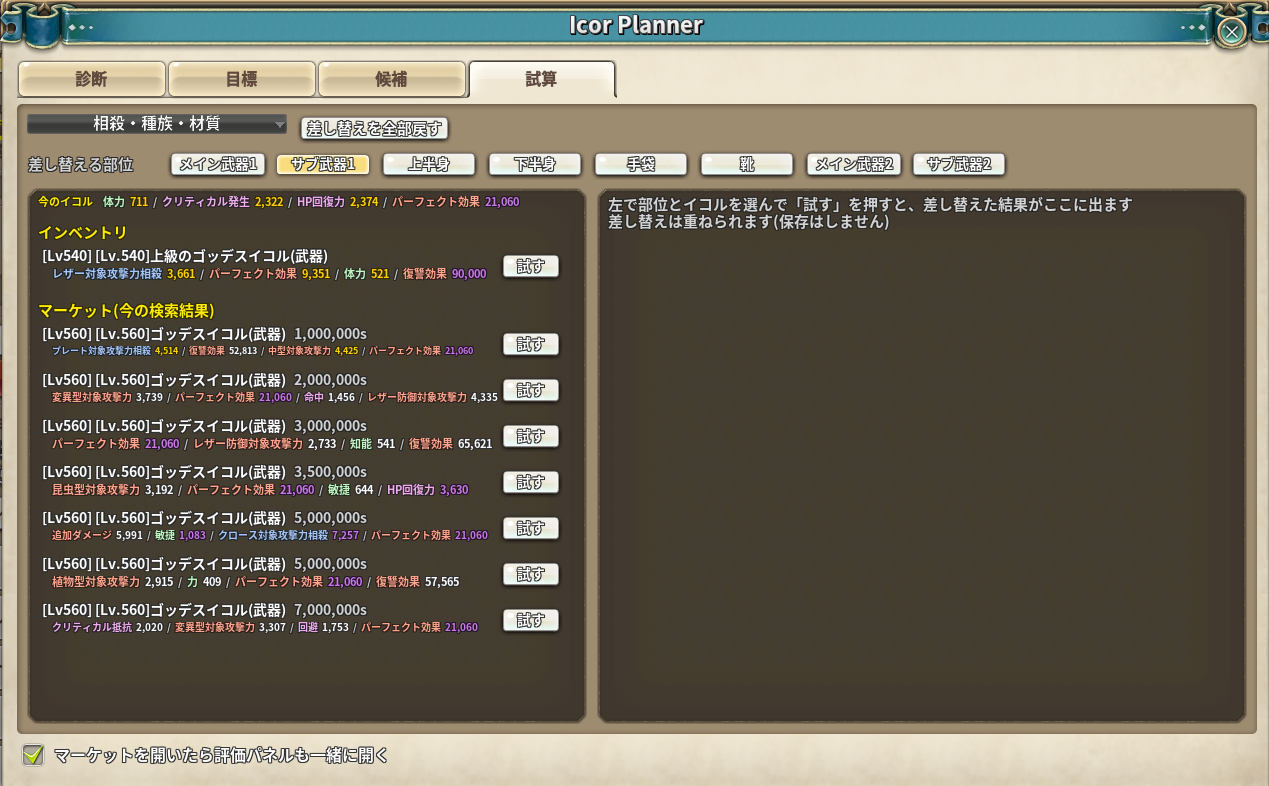
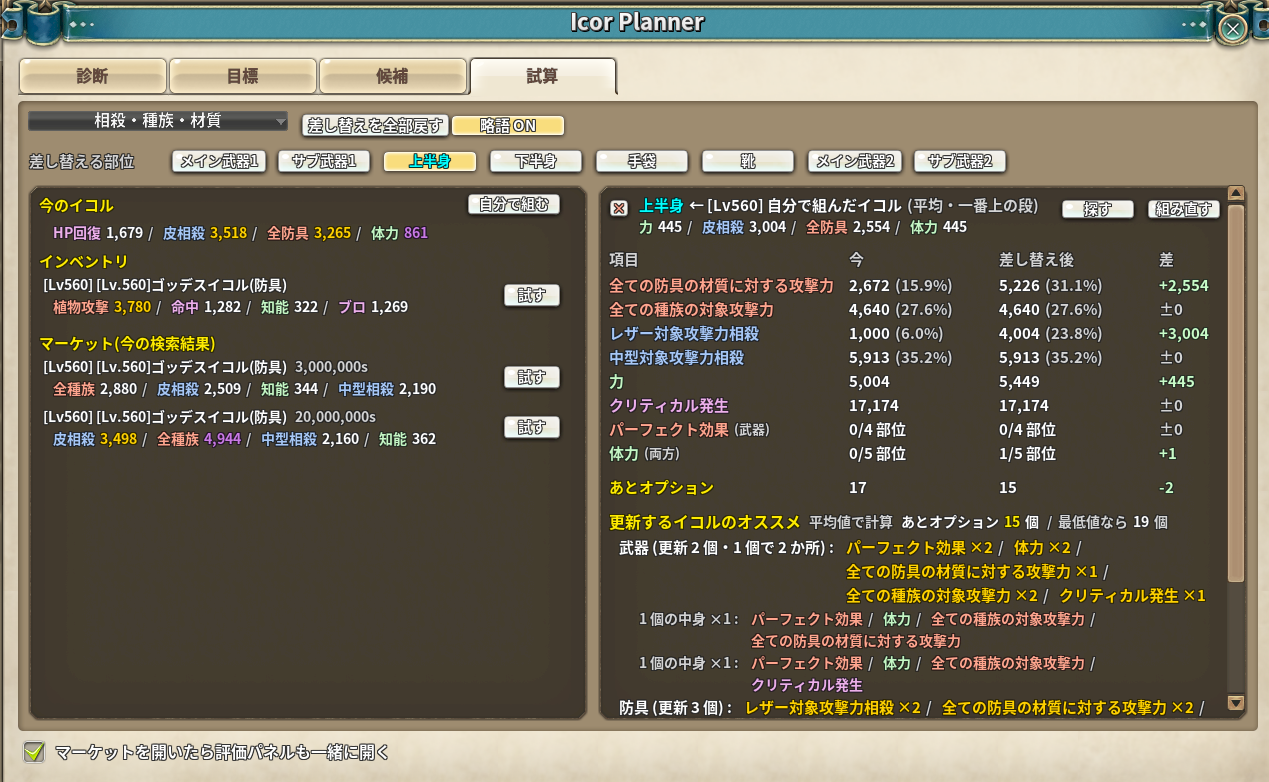
docs(icor_planner): 試算タブ・自分で組む画面・マーケットのパネルのスクリーンショットを差し替える
動作確認のときに撮ったもの。06 / 07 は撮り直し(自分で組む・略語 ON / OFF が増えた)、08 は新規。
alt テキストも実際の画面に合わせて直す。

Changed region(s): [[0.0, 0.0, 1.0, 0.9821], [0.8913, 0.3069, 0.922, 0.3376]]

diff --git a/icor_planner/README.md b/icor_planner/README.md
@@ -312,7 +312,7 @@
 
 ### 「試算」タブ
 
-![「試算」タブ。上に「差し替える部位」のボタンが並び、左に 今のイコル・インベントリ・マーケット（今の検索結果）のイコルが「試す」ボタン付きで並ぶ。右は差し替えた結果が出る欄](images/06-simulate-tab.png)
+![「試算」タブ。上に「差し替えを全部戻す」「略語 ON」と「差し替える部位」のボタンが並ぶ。左は 今のイコル（右上に「自分で組む」）・インベントリ・マーケット（今の検索結果）のイコルが略語のオプション付きで「試す」ボタンと並ぶ。右は上半身を自分で組んだイコルに差し替えた結果で、「探す」「組み直す」のボタン、今と差し替え後の値と差、あとオプション 17 → 15、その下に更新するイコルのオススメが出ている](images/06-simulate-tab.png)
 
 **「この部位のイコルを、インベントリ / マーケットのこのイコルに替えたら」**を見ます。
 
@@ -333,6 +333,8 @@
    試したイコルに替えたら、残りの更新するイコル（または今の装備のどの枠）に何を載せればよいかが分かります
 
 **手持ちにもマーケットにも無い「理想のイコル」を自分で組んで試す**こともできます。
+
+![「自分で組む」の画面。上に「値(全部の枠)」の 最低 / 平均 / 最大 / 限凸 ボタン、その下に 枠1〜枠4 それぞれのオプションのドロップリストと値のドロップリスト（平均）が並び、右に使う値と一番上の段の範囲（445 (316〜574) など）が出ている。下に 試す / オススメから / キャンセル のボタン](images/08-custom-icor.png)
 
 1. 部位を選ぶと、左の一番上（今のイコルの行）に **`自分で組む`** が出ます。押すと左が組む画面になります
 2. 4 枠それぞれで、**載せたいオプション**と**値**をドロップリストで選びます。
@@ -389,7 +391,7 @@
 
 ### マーケット
 
-![マーケットの横に出る評価パネル。上から 目標プリセット・「診断を開く」・並び順、「更新するイコルのセットで探す」のセット一覧（最低 / 平均 のボタン付き）、「オススメの検索条件」、その下に評価された出品が割合つきで並ぶ](images/07-market-panel.png)
+![マーケットの横に出る評価パネル。上から 目標プリセット・「診断を開く」、並び順・「略語 ON」、「オススメのセットで探す」のセット一覧（パフェ / 体力 / 全防具 のような略語で、最低 / 平均 のボタン付き）、その下に評価された出品が割合つきで並ぶ](images/07-market-panel.png)
 
 **試算タブで自分で組んだイコルがあれば、評価パネルの一番上に「試算で組んだイコルで探す」**が出ます。
 `探す` を押すと、そのイコルのオプションと下限（試算に使った値）をまとめて入れて検索します。
